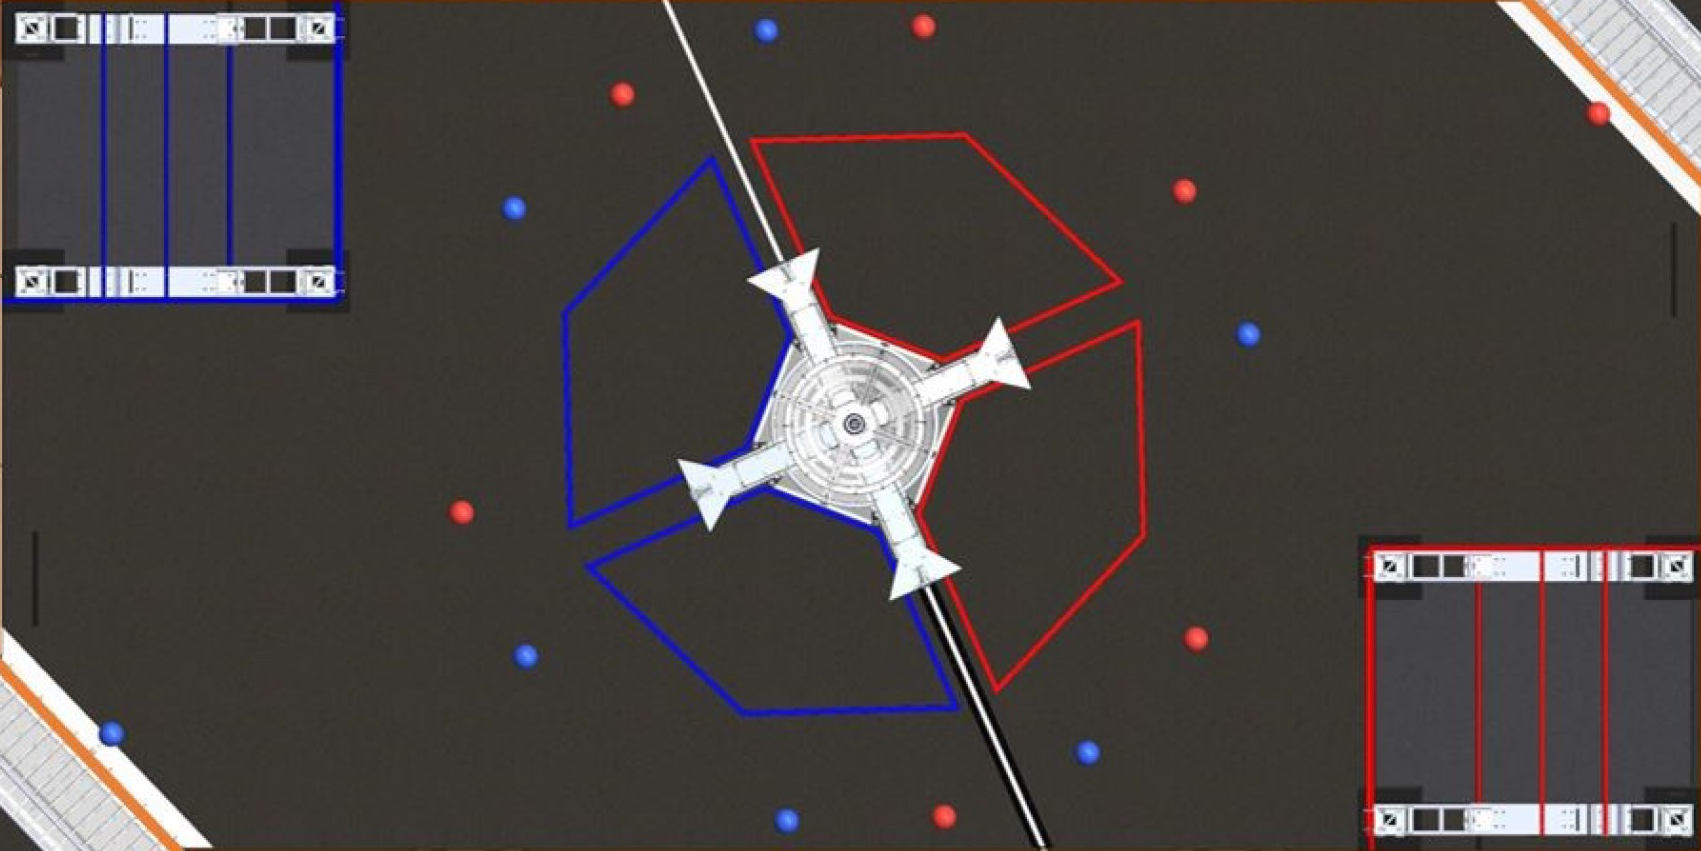
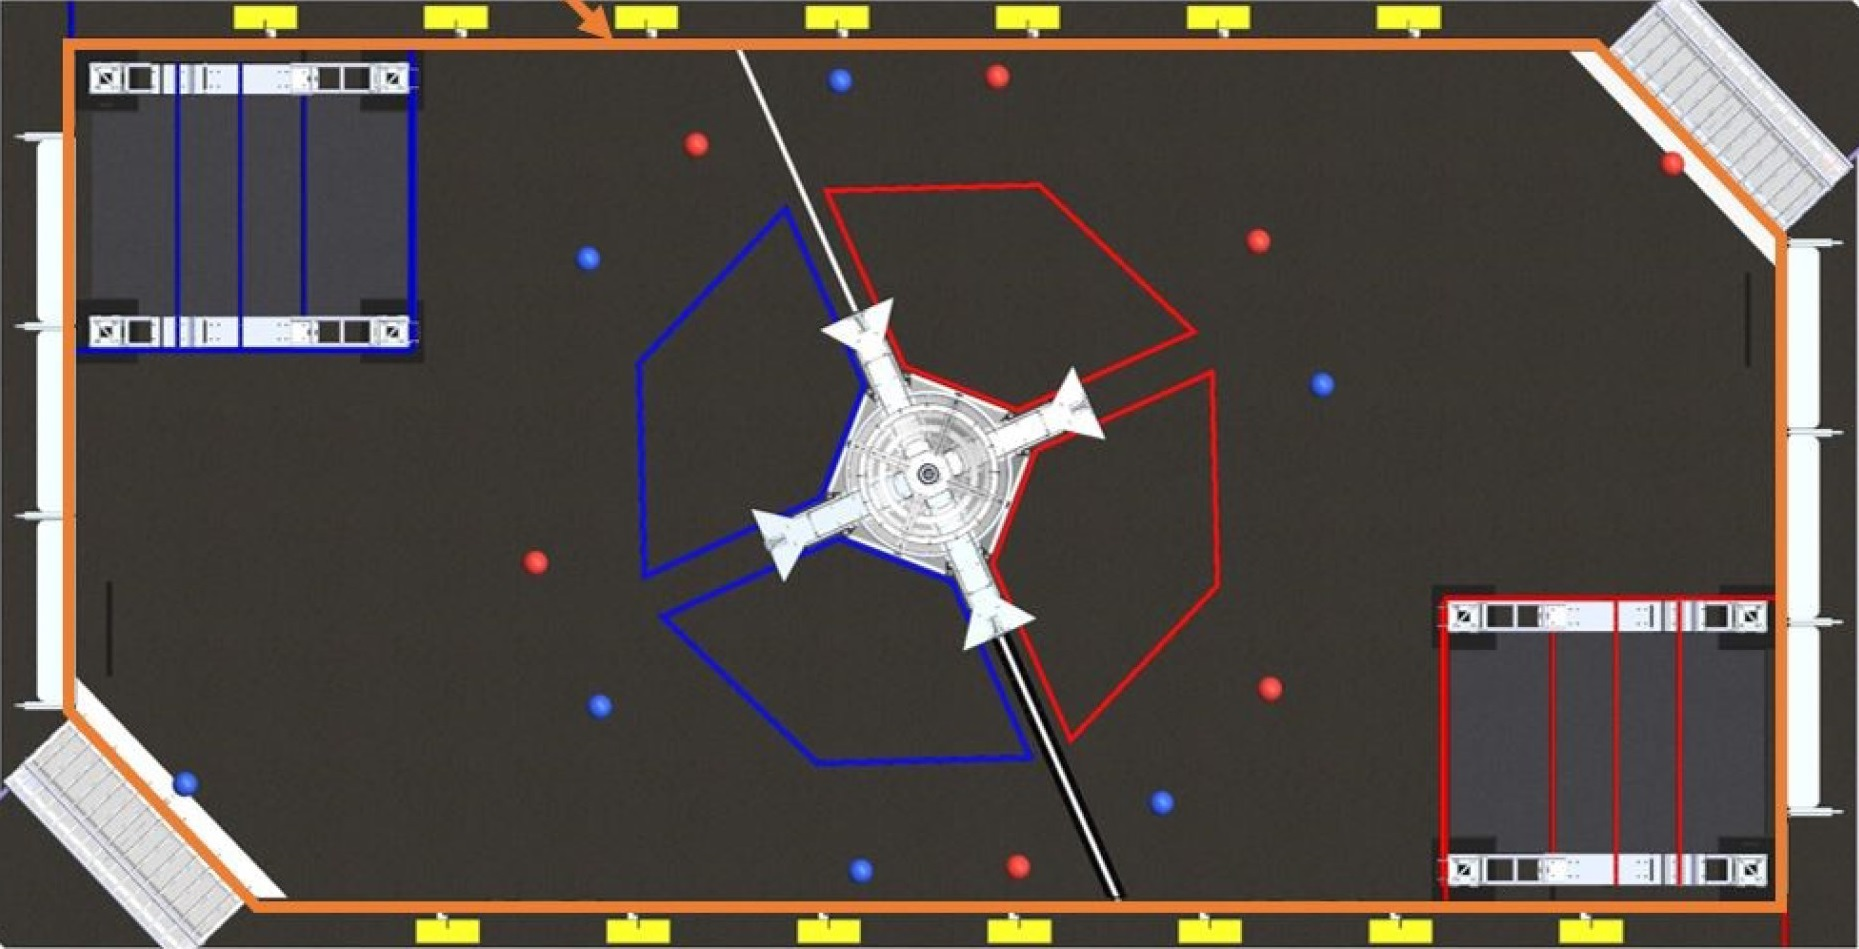
Move image so that poses don't need to be translated in sim

diff --git a/controllers/shooter.py b/controllers/shooter.py
@@ -17,7 +17,6 @@ from wpimath.geometry import Pose2d, Translation2d, Rotation2d
 import wpilib
 import navx
 import wpiutil.log
-from utilities.trajectory_generator import goal_to_field
 from utilities.functions import constrain_angle, interpolate
 
 
@@ -78,7 +77,7 @@ class ShooterController(StateMachine):
             self.data_log, "/shooter/vision"
         )
         self.field_effective_goal = self.field.getObject("effective_goal")
-        self.field_effective_goal.setPose(goal_to_field(Pose2d(0, 0, 0)))
+        self.field_effective_goal.setPose(Pose2d(0, 0, 0))
 
     @default_state
     def tracking(self) -> None:
@@ -101,9 +100,7 @@ class ShooterController(StateMachine):
                 break
 
         self.field_effective_goal.setPose(
-            goal_to_field(
-                Pose2d(-robot_movement.X(), -robot_movement.Y(), Rotation2d(0))
-            )
+            Pose2d(-robot_movement.X(), -robot_movement.Y(), Rotation2d(0))
         )
 
         turret_pose = self.chassis.robot_to_world(

diff --git a/autonomous/autonomous.py b/autonomous/autonomous.py
@@ -94,9 +94,7 @@ class AutoBase(AutonomousStateMachine):
 
     def setup(self) -> None:
         self.field_auto_target_pose = self.field.getObject("auto_target_pose")
-        self.field_auto_target_pose.setPose(
-            trajectory_generator.goal_to_field(Pose2d(0, 0, 0))
-        )
+        self.field_auto_target_pose.setPose(Pose2d(0, 0, 0))
 
     def on_enable(self) -> None:
         self.chassis.set_pose(self.waypoints_poses[0])
@@ -176,9 +174,7 @@ class AutoBase(AutonomousStateMachine):
         )
 
         # send poses to driverstation
-        self.field_auto_target_pose.setPose(
-            trajectory_generator.goal_to_field(goal_pose)
-        )
+        self.field_auto_target_pose.setPose(goal_pose)
         wpilib.SmartDashboard.putNumber("auto_vel", float(linear_state.velocity))
 
         self.last_pose = goal_pose

diff --git a/components/vision.py b/components/vision.py
@@ -4,7 +4,6 @@ from components.turret import Turret
 from components.chassis import Chassis
 import wpilib
 from utilities.scalers import scale_value
-from utilities.trajectory_generator import goal_to_field
 from photonvision import PhotonCamera, PhotonUtils, LEDMode
 from wpimath.geometry import Pose2d, Translation2d, Rotation2d
 
@@ -89,7 +88,7 @@ class Vision:
         vision_pose = pose_from_vision(
             self.distance, target_angle, robot_rotation.radians()
         )
-        self.field_obj.setPose(goal_to_field(vision_pose))
+        self.field_obj.setPose(vision_pose)
 
         if self.fuse_vision_observations:
             innovation = vision_pose.translation().distance(

diff --git a/components/chassis.py b/components/chassis.py
@@ -19,7 +19,6 @@ from wpimath.interpolation import TimeInterpolatablePose2dBuffer
 from utilities.functions import constrain_angle
 from utilities.ctre import FALCON_CPR
 from wpimath.controller import SimpleMotorFeedforwardMeters
-from utilities.trajectory_generator import goal_to_field
 
 
 class SwerveModule:
@@ -329,7 +328,7 @@ class Chassis:
             self.modules[2].get(),
             self.modules[3].get(),
         )
-        self.field.setRobotPose(goal_to_field(self.get_pose()))
+        self.field.setRobotPose(self.get_pose())
 
     def update_pose_history(self) -> None:
         pose = self.get_pose()
